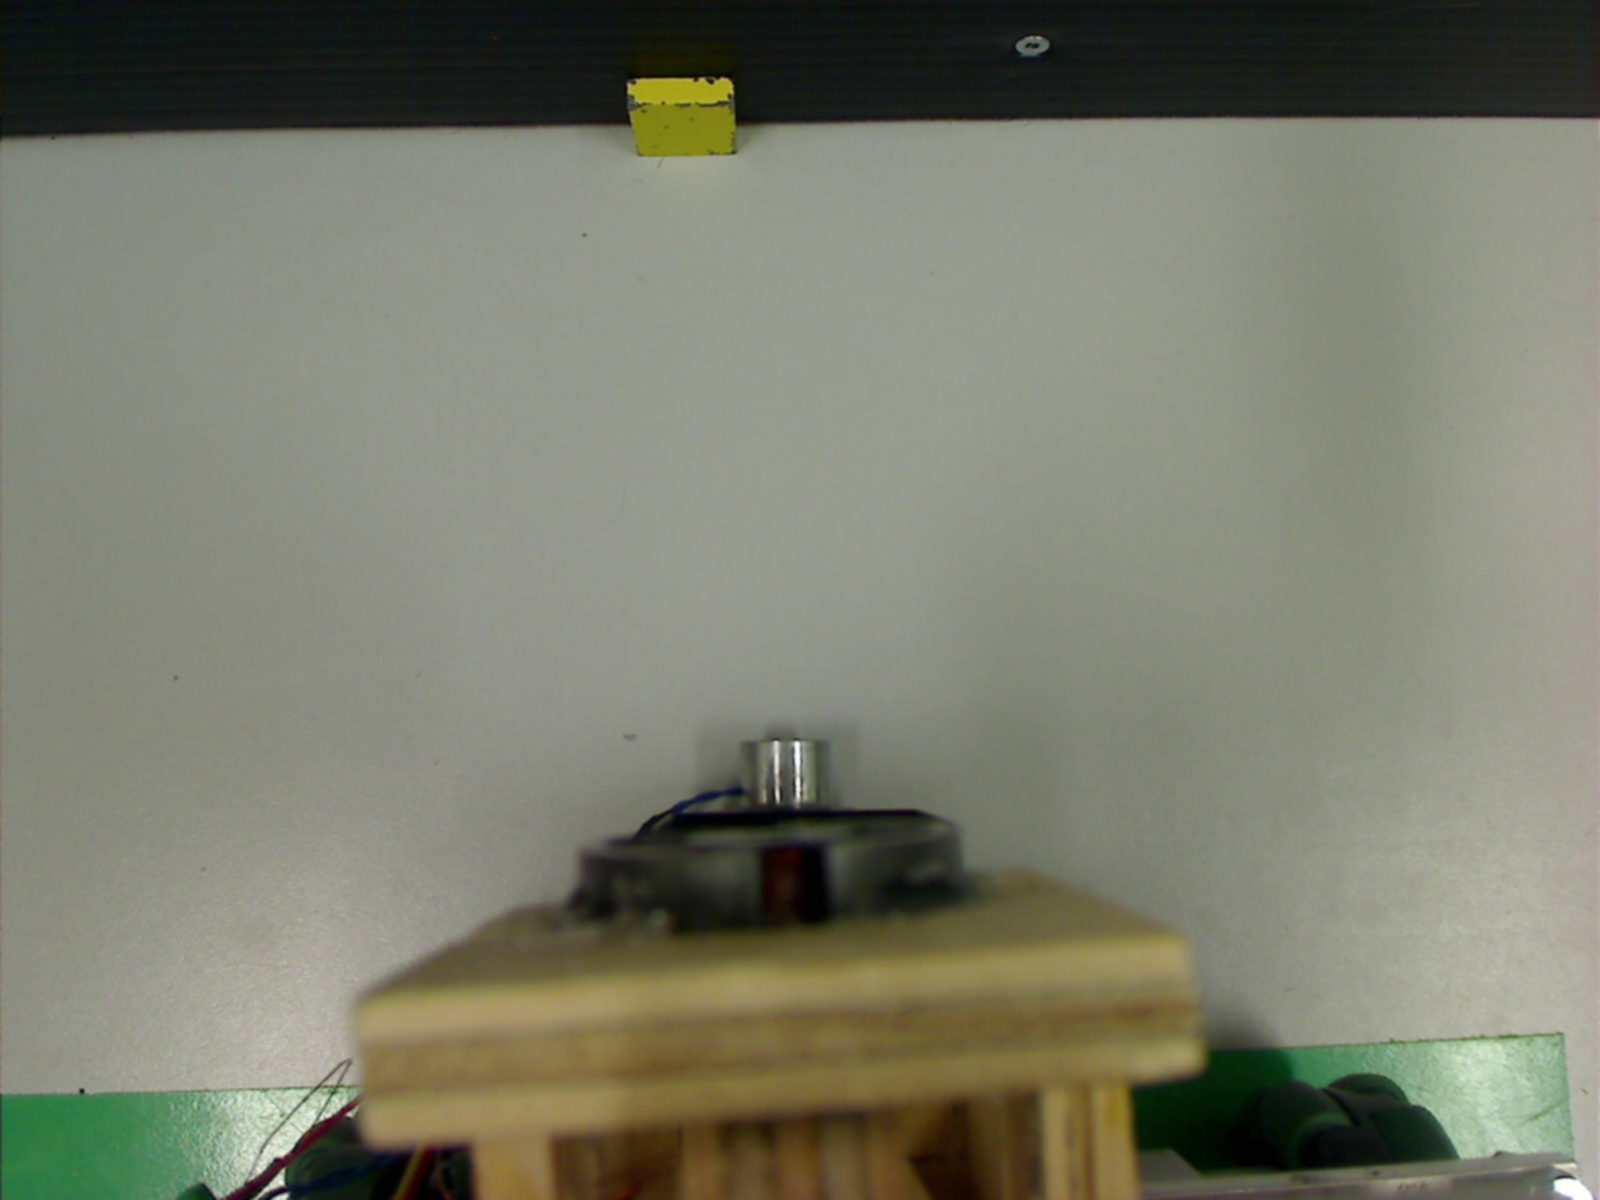
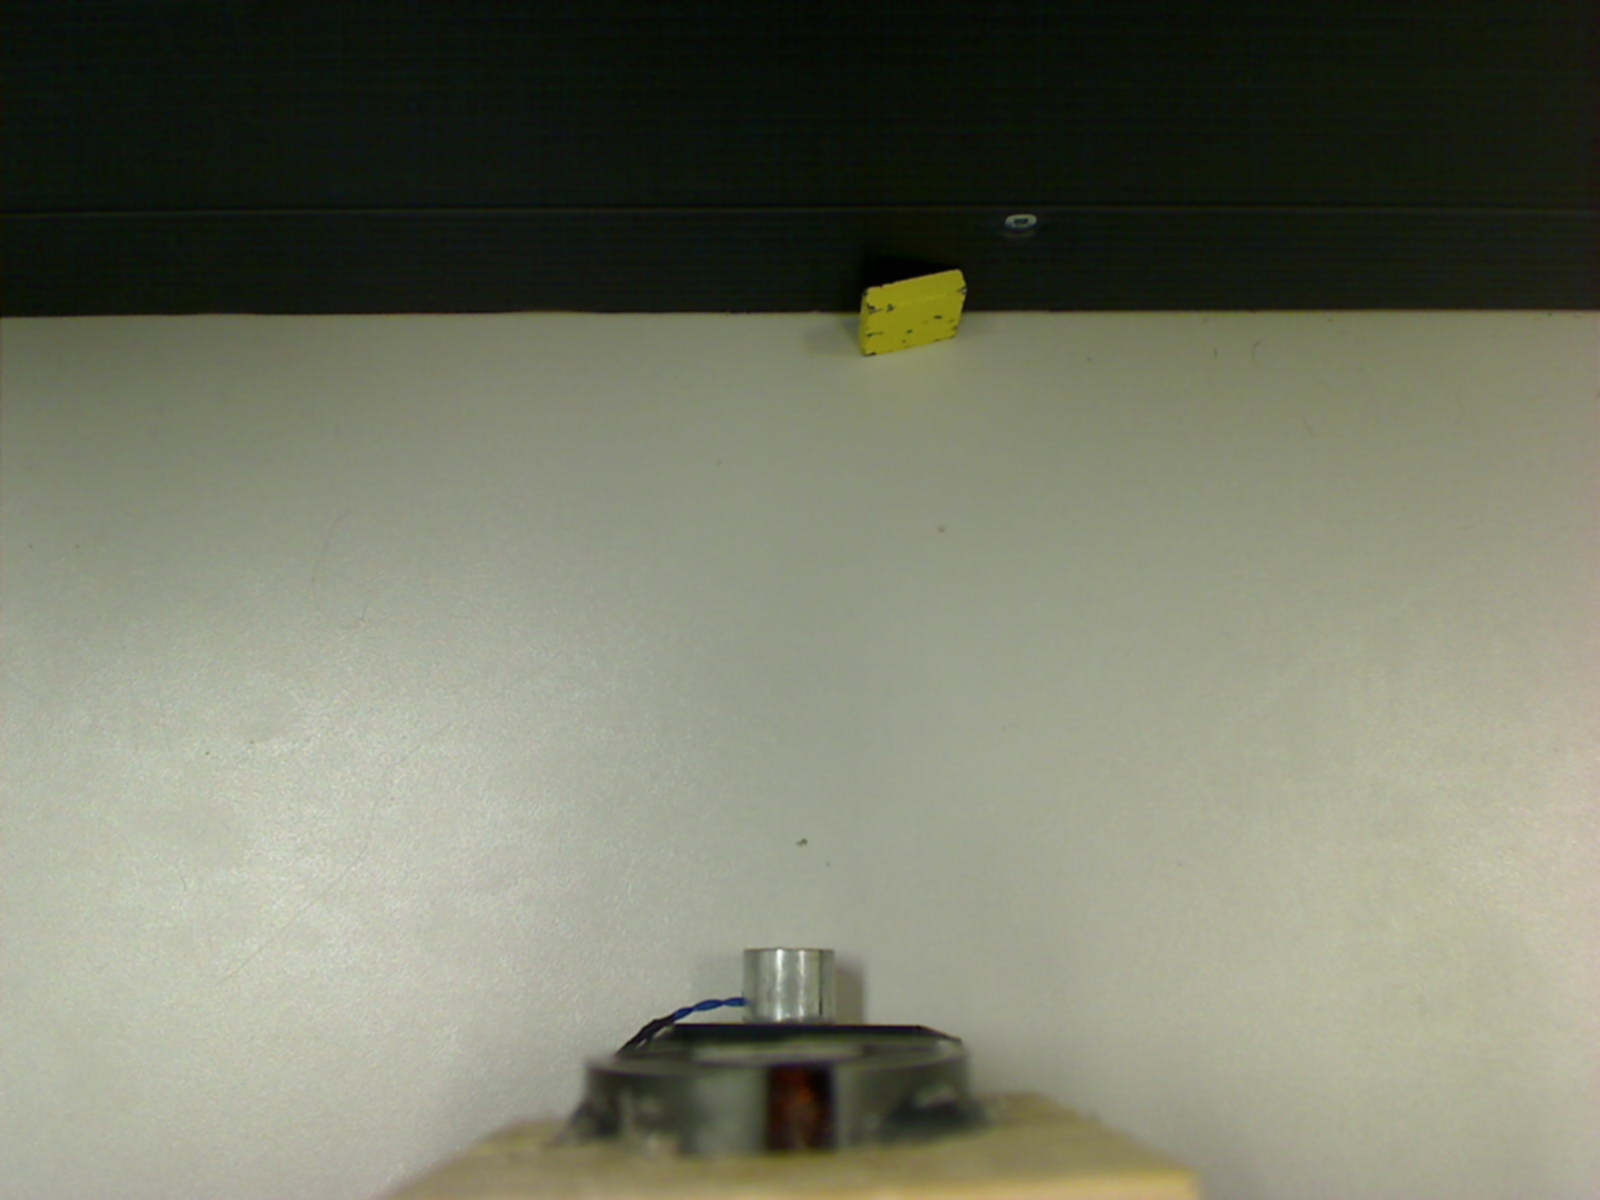
Robot pret a tester tresor

diff --git a/glo/BlackPearl/robot/interface/Robot.py b/glo/BlackPearl/robot/interface/Robot.py
@@ -28,8 +28,8 @@ class Robot(Thread):
         self.adresseIP = '192.168.0.45'
         self.tensionCondensateur = 0
 
-        #self._demarrerLectureUART()
-        #self._demarrerConnectionTCP()
+        self._demarrerLectureUART()
+        self._demarrerConnectionTCP()
         self._demarrerFeedVideo()
 
         self.demarrerAlignementTresor()
@@ -55,14 +55,14 @@ class Robot(Thread):
 
     def demarrerAlignementTresor(self):
         self.alignementEnCours = True
-        #self.uartDriver.cameraPositionTresor()
+        self.uartDriver.cameraPositionDepot()
         self.threadVideo.demarrerCapture()
 
         self._demarrerAnalyseVideo('tresor')
 
-        #self.uartDriver.preAlignementTresor()
+        self.uartDriver.preAlignementTresor()
         self._executerAlignement()
-#        self.uartDriver.postAlignementTresor()
+        self.uartDriver.postAlignementTresor()
 
         self.alignementEnCours = False
         self.threadVideo.suspendreCapture()
@@ -75,7 +75,7 @@ class Robot(Thread):
         self._demarrerAnalyseVideo('bleu')
 
         self._executerAlignement()
-        #self.uartDriver.postAlignementIle()
+        self.uartDriver.postAlignementIle()
 
         self.alignementEnCours = False
         self.threadVideo.suspendreCapture()

diff --git a/glo/BlackPearl/robot/vision/DetectionTresor.py b/glo/BlackPearl/robot/vision/DetectionTresor.py
@@ -11,7 +11,7 @@ class DetectionTresor(object):
     def __init__(self, image):
         self.alignementTresor = AlignementTresor()
         self.imageCamera = image
-        self.positionZone = (800, 730)
+        self.positionZone = (800, 950)
         self.rayonZone = 20
         self._definirIntervallesCouleurs()
         self._dessinerZoneCible()
@@ -50,8 +50,8 @@ class DetectionTresor(object):
         masqueCouleur = cv2.inRange(self.imageCamera, intervalleFonce, intervalleClair)
         kernel = np.ones((5, 5), np.uint8)
         closing = cv2.morphologyEx(masqueCouleur, cv2.MORPH_CLOSE, kernel)
-        # cv2.imshow("Tresor", closing)
-        # cv2.waitKey(0)
+        #cv2.imshow("Tresor", closing)
+        #cv2.waitKey(0)
 
         contoursTresor = []
         _, contoursCouleur, _ = cv2.findContours(closing, cv2.RETR_EXTERNAL, cv2.CHAIN_APPROX_SIMPLE)
@@ -97,3 +97,5 @@ class DetectionTresor(object):
         cv2.putText(self.imageCamera, "%.2f cm" % (distance),
                     (self.imageCamera.shape[1] - 300, self.imageCamera.shape[0] - 20), cv2.FONT_HERSHEY_SIMPLEX, 2.0,
                     (0, 255, 0), 3)
+        cv2.imshow("Image", self.imageCamera)
+        cv2.waitKey(0)

diff --git a/glo/BlackPearl/robot/interface/BootMain.py b/glo/BlackPearl/robot/interface/BootMain.py
@@ -7,22 +7,19 @@ import time
 
 
 def main():
-    prefixPort = '/dev/tty.usbmodemFA131'
-    monUART = UARTDriver(prefixPort, 115200)
-    robot = Robot(monUART)
-    robot.start()
+    prefixPort = '/dev/ttyAMC'
 
-    # for j in range(0, 20):
-    #   try:
-    #     port = prefixPort + str(j)
-    #     monUART = UARTDriver(port, 115200)
-    #     print('le bon port est: ' + port)
-    #     robot = Robot(monUART)
-    #     robot.start()
-    #     break
-    #   except Exception as e:
-    #     print e
-    #     print('mauvais port')
+    for j in range(0, 20):
+      try:
+        port = prefixPort + str(j)
+        monUART = UARTDriver(port, 115200)
+        print('le bon port est: ' + port)
+        robot = Robot(monUART)
+        robot.start()
+        break
+      except Exception as e:
+        print e
+        print('mauvais port')
 
 if __name__ == '__main__':
     main()

diff --git a/glo/BlackPearl/robot/communication/UARTDriver.py b/glo/BlackPearl/robot/communication/UARTDriver.py
@@ -49,8 +49,6 @@ class UARTDriver:
     def preAlignementTresor(self):
         self.descendrePrehenseur()
         time.sleep(6)
-        self.cameraPositionTresor()
-        time.sleep(2)
         self.activerAimant()
         time.sleep(0.5)
 
